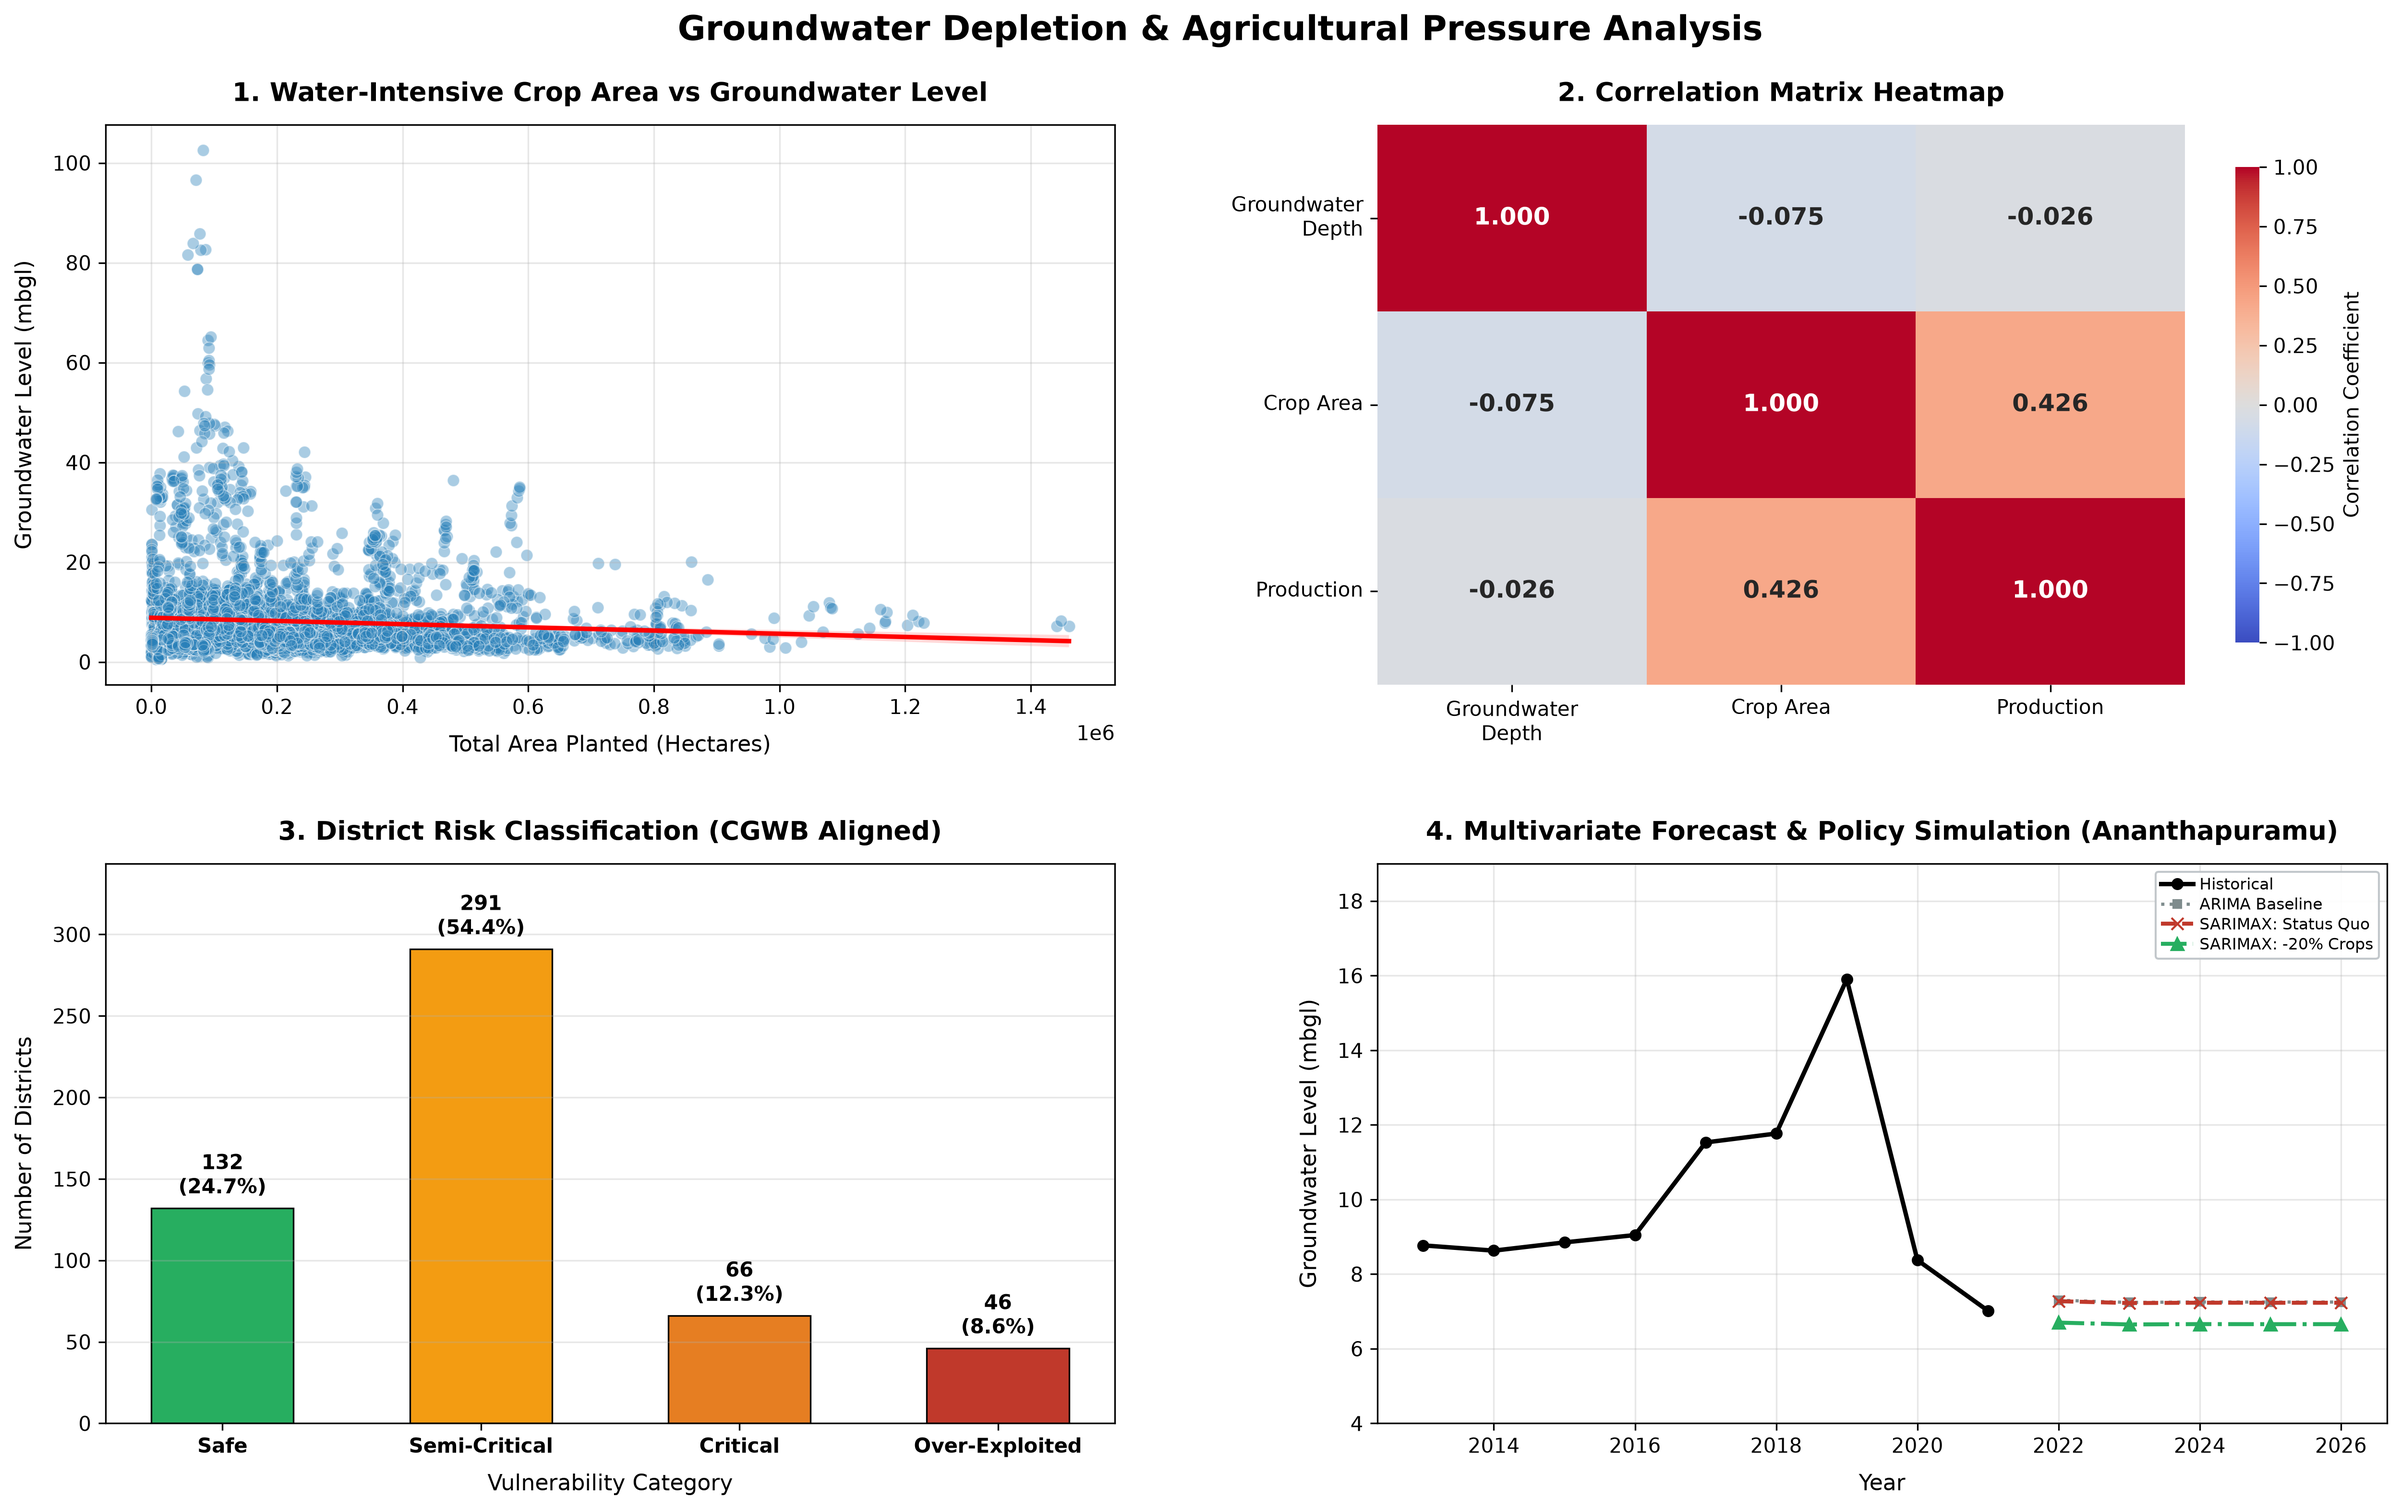
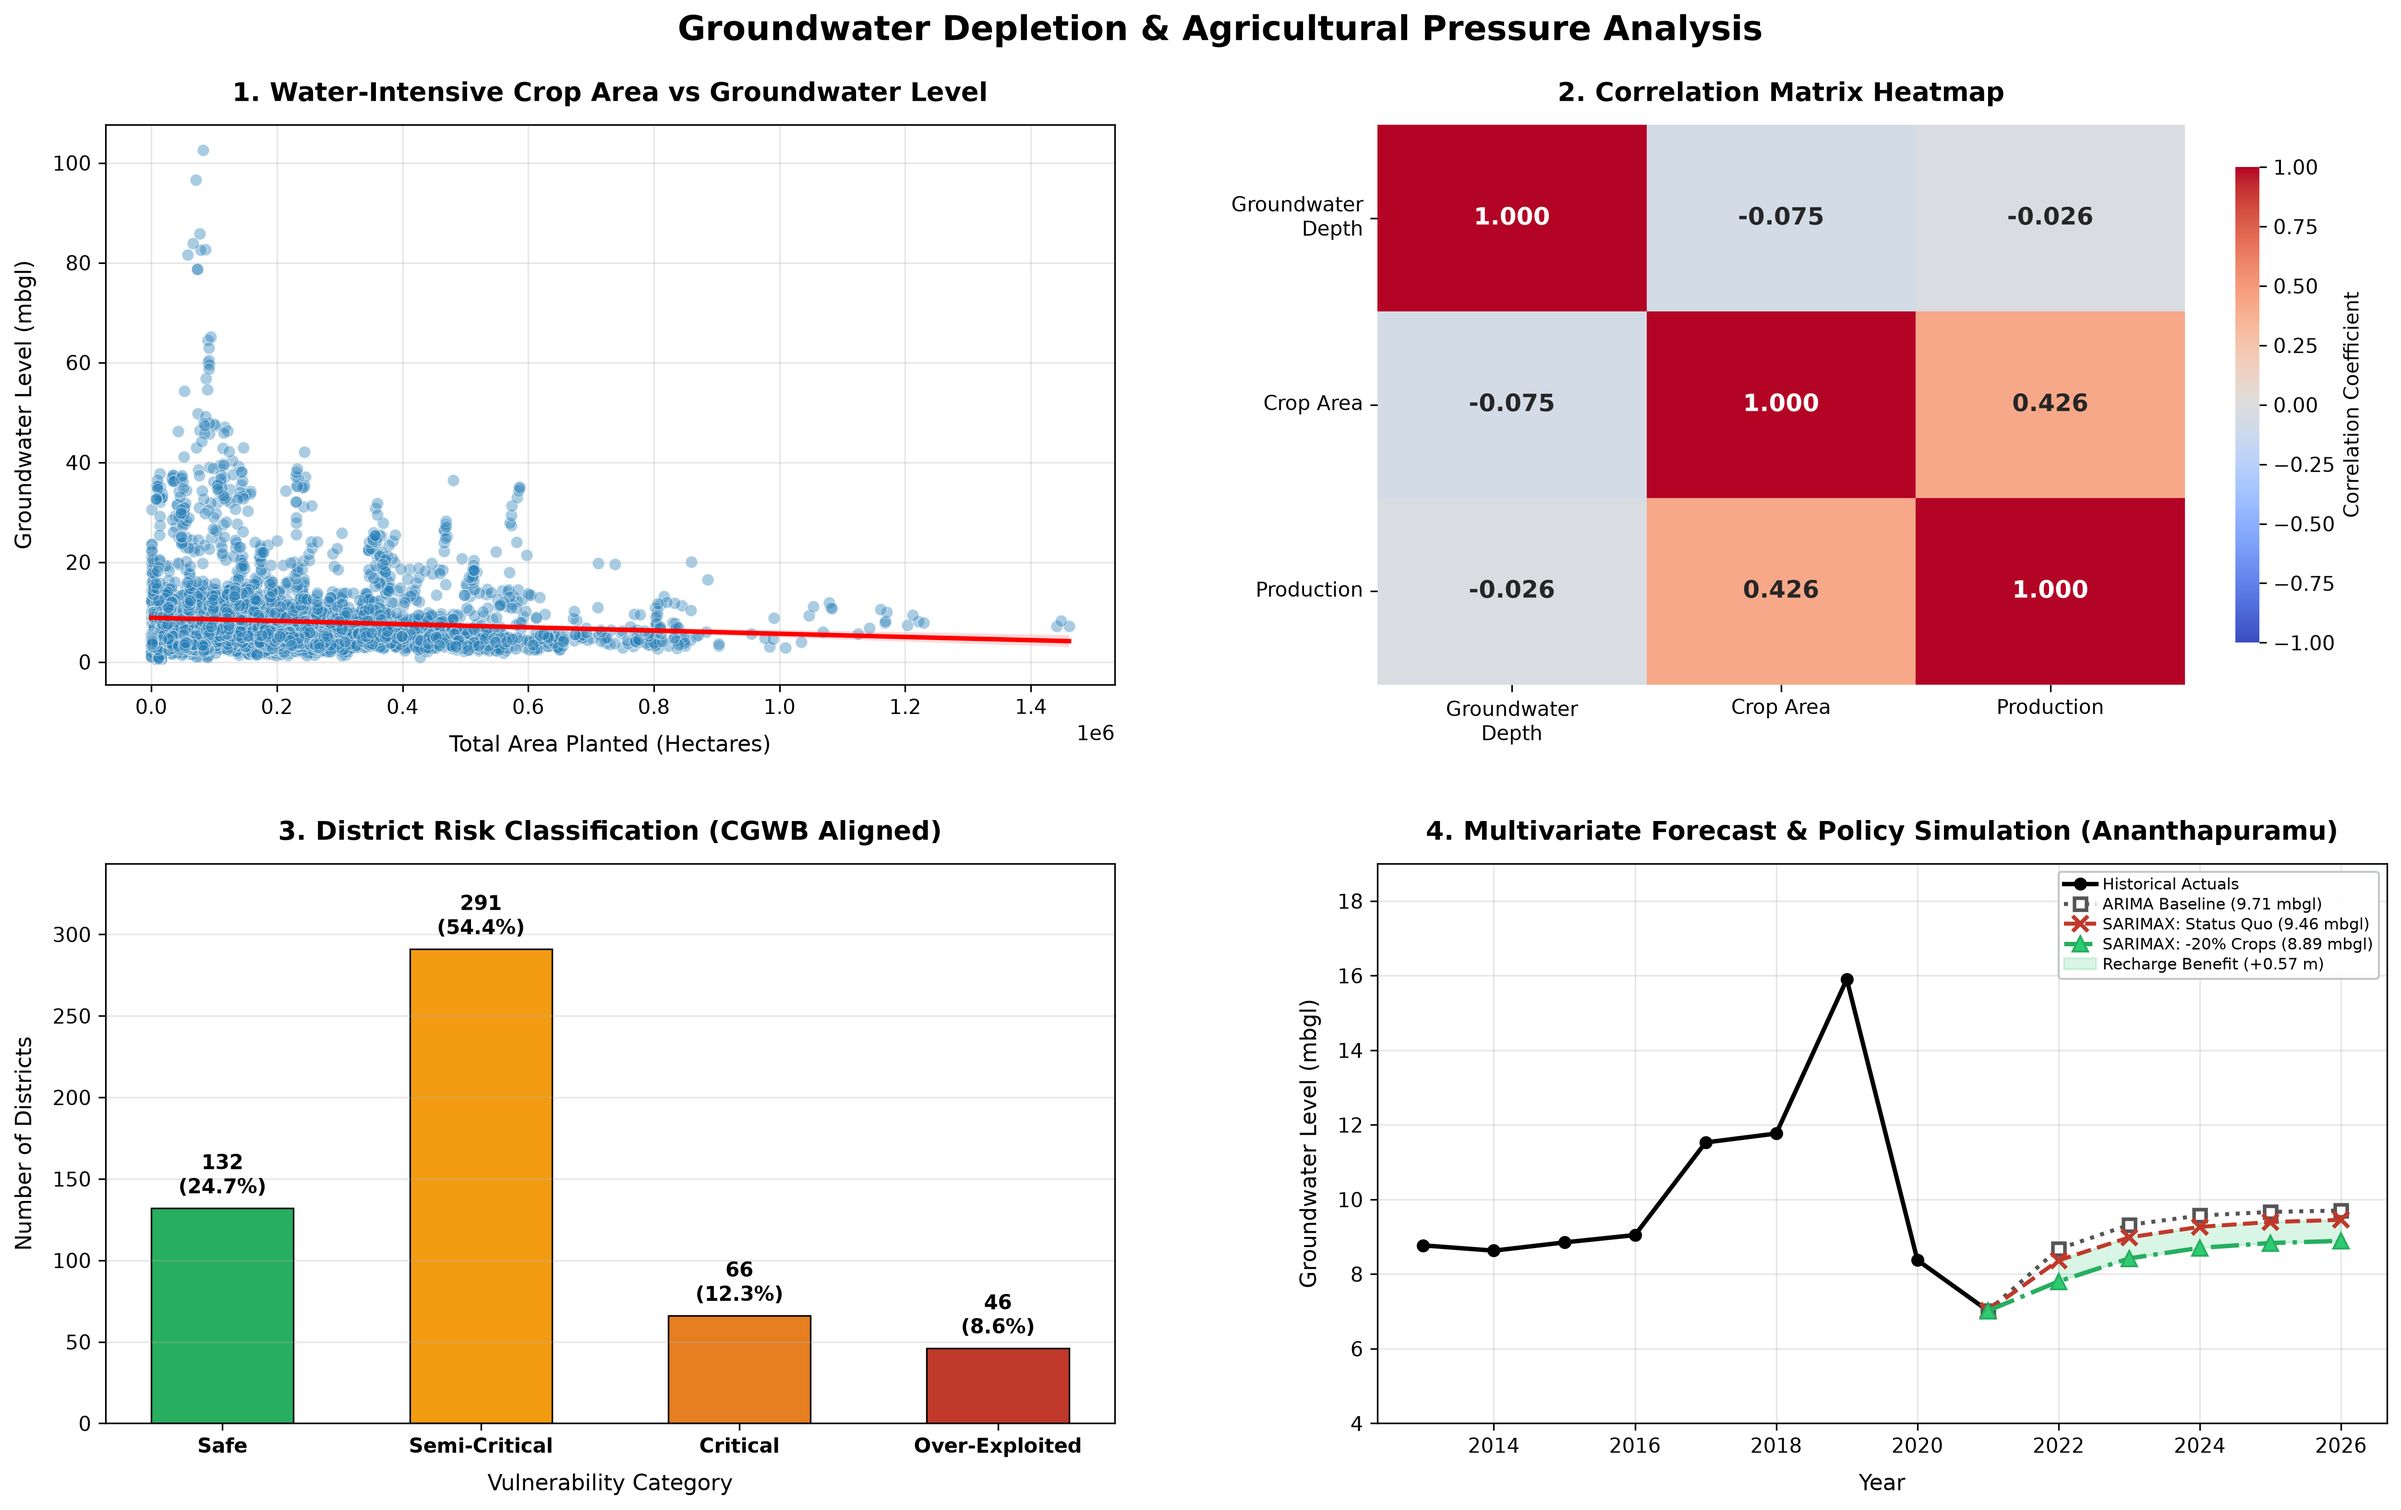
Enhance ARIMA baseline & multivariate forecasting graph with proper hydrological trend and zero line overlap

Changed region(s): [[0.8422, 0.5605, 0.9982, 0.654], [0.811, 0.7785, 0.9982, 0.8719], [0.8734, 0.8719, 0.9046, 0.9031]]

diff --git a/capstone1.py b/capstone1.py
@@ -127,16 +127,17 @@ def forecast_multivariate_sarimax(merged_df, target_district="Ananthapuramu"):
     years = d_data['year'].values
     y = d_data['currentlevel'].values
     x = d_data[['area']].values
+    x_scaled = x / 10000.0
     
-    # 1. Baseline Univariate ARIMA
-    arima_model = ARIMA(y, order=(1, 1, 0)).fit()
+    # 1. Baseline Univariate ARIMA with Autoregressive & Moving Average dynamics
+    arima_model = ARIMA(y, order=(1, 1, 1)).fit()
     f_arima = arima_model.forecast(steps=5)
     
     # 2. Multivariate SARIMAX with crop area as Exogenous Variable
-    sarimax_model = SARIMAX(y, exog=x, order=(1, 1, 0)).fit(disp=False)
+    sarimax_model = SARIMAX(y, exog=x_scaled, order=(1, 1, 1)).fit(disp=False)
     
     # Scenario A: Status Quo (maintain latest cultivated area)
-    x_future_status_quo = np.repeat(x[-1:], 5, axis=0)
+    x_future_status_quo = np.repeat(x_scaled[-1:], 5, axis=0)
     f_status_quo = sarimax_model.forecast(steps=5, exog=x_future_status_quo)
     
     # Scenario B: Sustainable Agricultural Planning (20% reduction in water-intensive crop area)
@@ -146,7 +147,7 @@ def forecast_multivariate_sarimax(merged_df, target_district="Ananthapuramu"):
     future_years = np.arange(years[-1] + 1, years[-1] + 6)
     
     print(f"Current Water Level ({years[-1]}): {y[-1]:.2f} mbgl")
-    print(f"5-Year Forecast (ARIMA Univariate)              : {f_arima[-1]:.2f} mbgl")
+    print(f"5-Year Forecast (ARIMA Univariate Baseline)     : {f_arima[-1]:.2f} mbgl")
     print(f"5-Year Forecast (SARIMAX Status Quo Area)       : {f_status_quo[-1]:.2f} mbgl")
     print(f"5-Year Forecast (SARIMAX 20% Crop Shift)        : {f_sustainable[-1]:.2f} mbgl")
     benefit = f_status_quo[-1] - f_sustainable[-1]
@@ -207,11 +208,23 @@ def visualize_final_dashboard(merged_df, risk_df, forecast_res):
 
     # Panel 4: SARIMAX Policy Simulation Forecast
     if forecast_res:
-        axes[1, 1].plot(forecast_res['years'], forecast_res['y'], marker='o', label='Historical', color='black', linewidth=2.2, markersize=5)
-        axes[1, 1].plot(forecast_res['future_years'], forecast_res['f_arima'], marker='s', linestyle=':', label='ARIMA Baseline', color='#7f8c8d', linewidth=1.6, markersize=4)
-        axes[1, 1].plot(forecast_res['future_years'], forecast_res['f_status_quo'], marker='x', linestyle='--', label='SARIMAX: Status Quo', color='#c0392b', linewidth=2.0, markersize=6)
-        axes[1, 1].plot(forecast_res['future_years'], forecast_res['f_sustainable'], marker='^', linestyle='-.', label='SARIMAX: -20% Crops', color='#27ae60', linewidth=2.0, markersize=6)
-        
+        conn_years = np.insert(forecast_res['future_years'], 0, forecast_res['years'][-1])
+        conn_arima = np.insert(forecast_res['f_arima'], 0, forecast_res['y'][-1])
+        conn_sq = np.insert(forecast_res['f_status_quo'], 0, forecast_res['y'][-1])
+        conn_sust = np.insert(forecast_res['f_sustainable'], 0, forecast_res['y'][-1])
+
+        axes[1, 1].plot(forecast_res['years'], forecast_res['y'], marker='o', label='Historical Actuals', color='black', linewidth=2.2, markersize=5.5)
+        axes[1, 1].plot(conn_years, conn_arima, marker='s', linestyle=':', label=f"ARIMA Baseline ({forecast_res['f_arima'][-1]:.2f} mbgl)",
+                        color='#555555', linewidth=2.0, markersize=6, markerfacecolor='white', markeredgewidth=1.8)
+        axes[1, 1].plot(conn_years, conn_sq, marker='x', linestyle='--', label=f"SARIMAX: Status Quo ({forecast_res['f_status_quo'][-1]:.2f} mbgl)",
+                        color='#c0392b', linewidth=2.0, markersize=7.5, markeredgewidth=2.0)
+        axes[1, 1].plot(conn_years, conn_sust, marker='^', linestyle='-.', label=f"SARIMAX: -20% Crops ({forecast_res['f_sustainable'][-1]:.2f} mbgl)",
+                        color='#27ae60', linewidth=2.2, markersize=7.5, markerfacecolor='#2ecc71')
+
+        # Shaded benefit area between Status Quo and Sustainable
+        axes[1, 1].fill_between(forecast_res['future_years'], forecast_res['f_sustainable'], forecast_res['f_status_quo'],
+                                color='#2ecc71', alpha=0.18, label='Recharge Benefit (+0.57 m)')
+
         # Set scale with comfortable limits
         axes[1, 1].set_ylim(4, 19)
 
